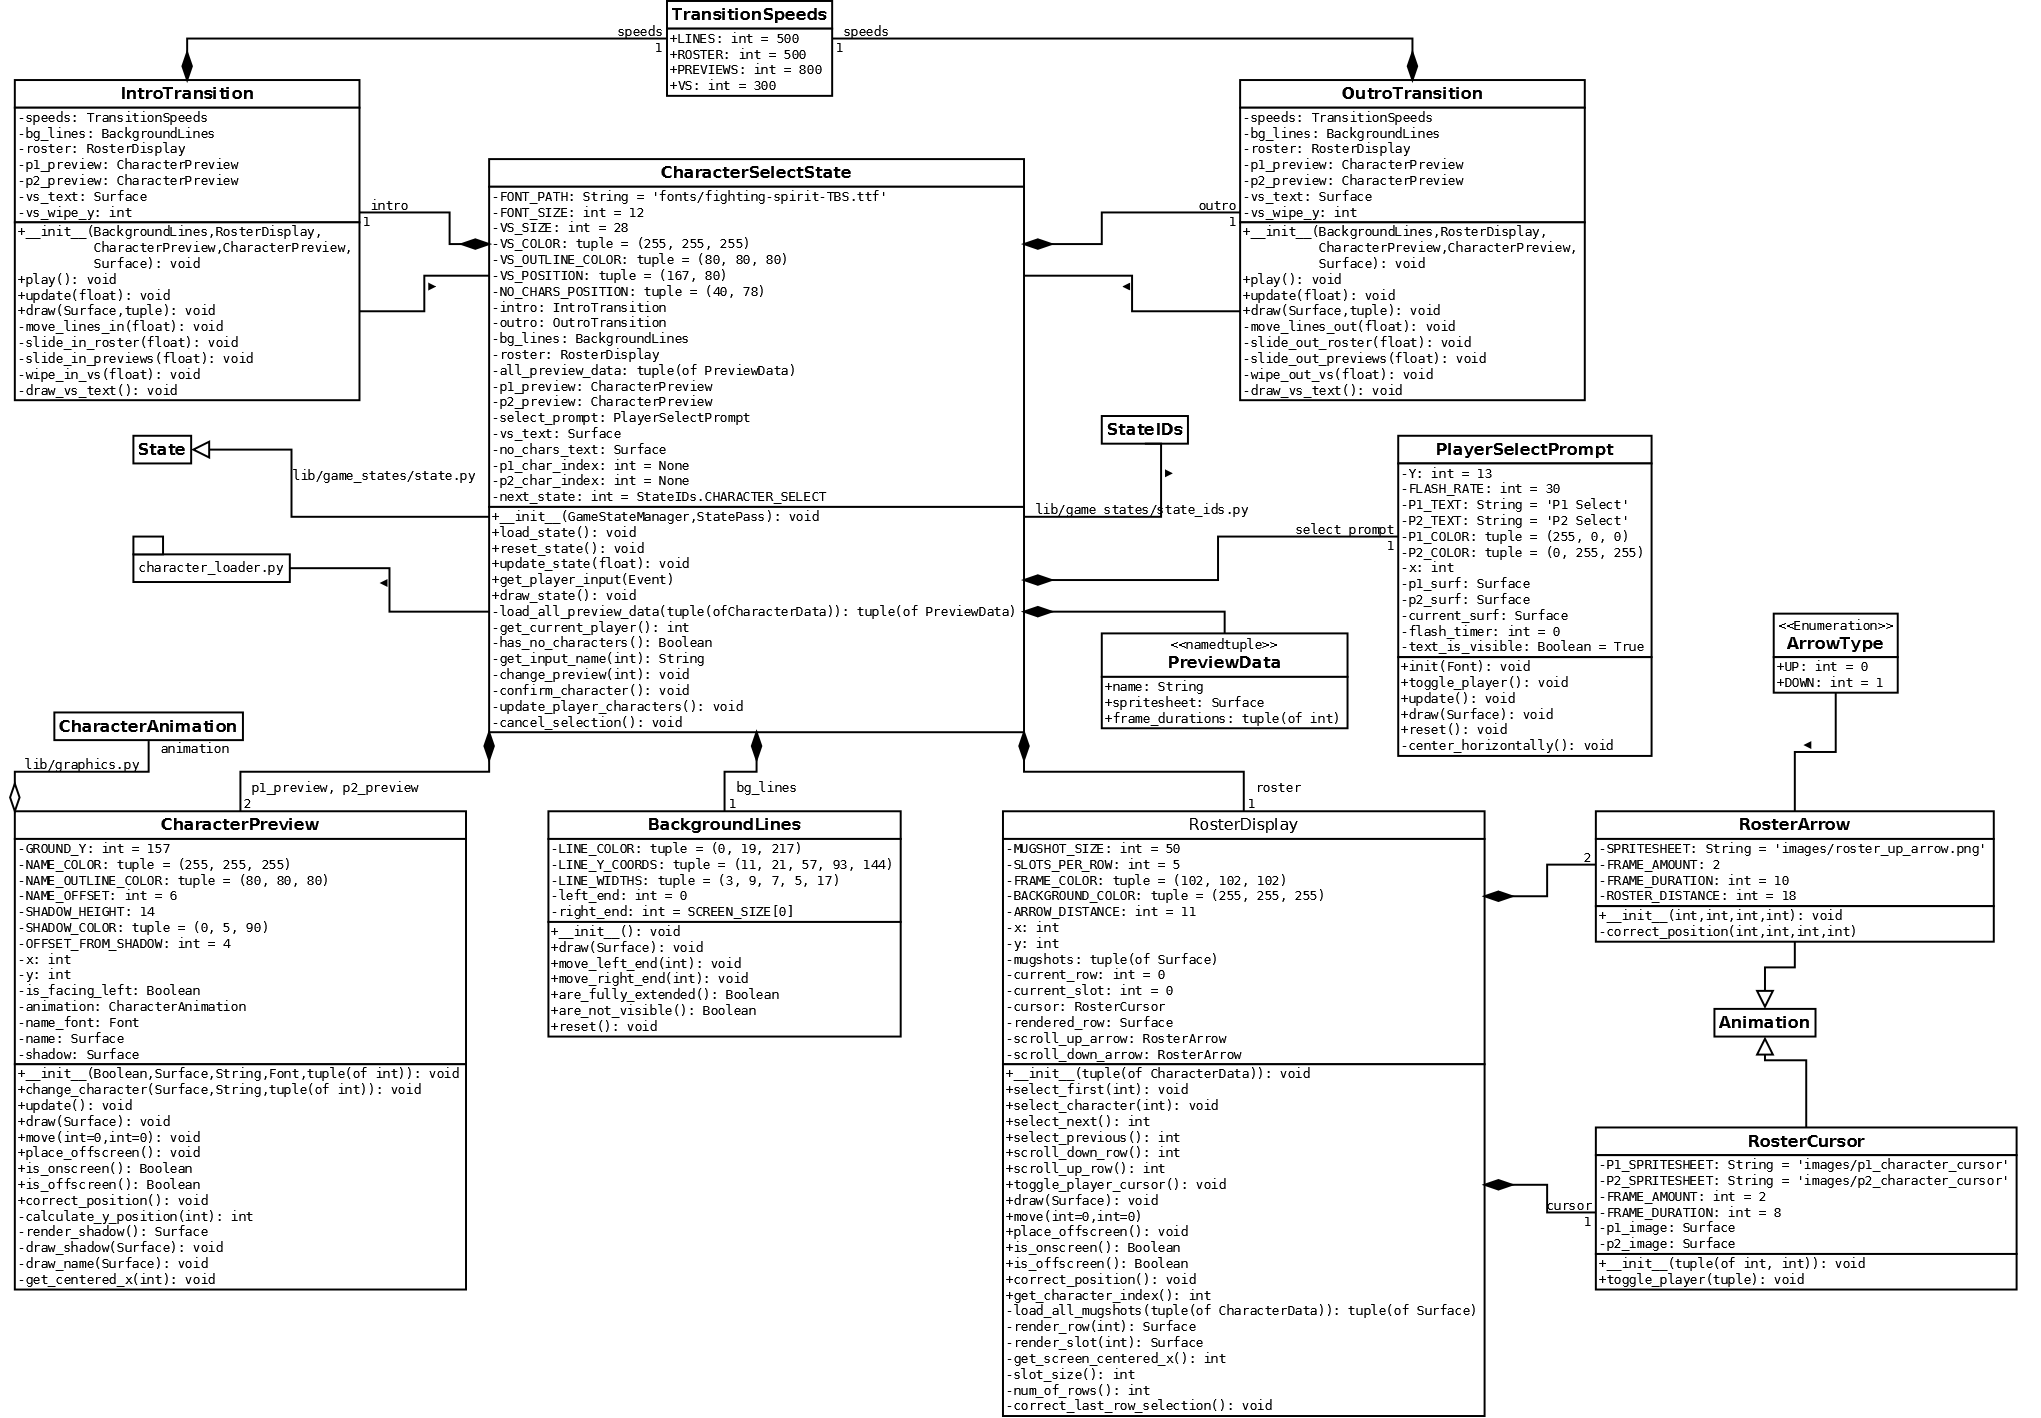
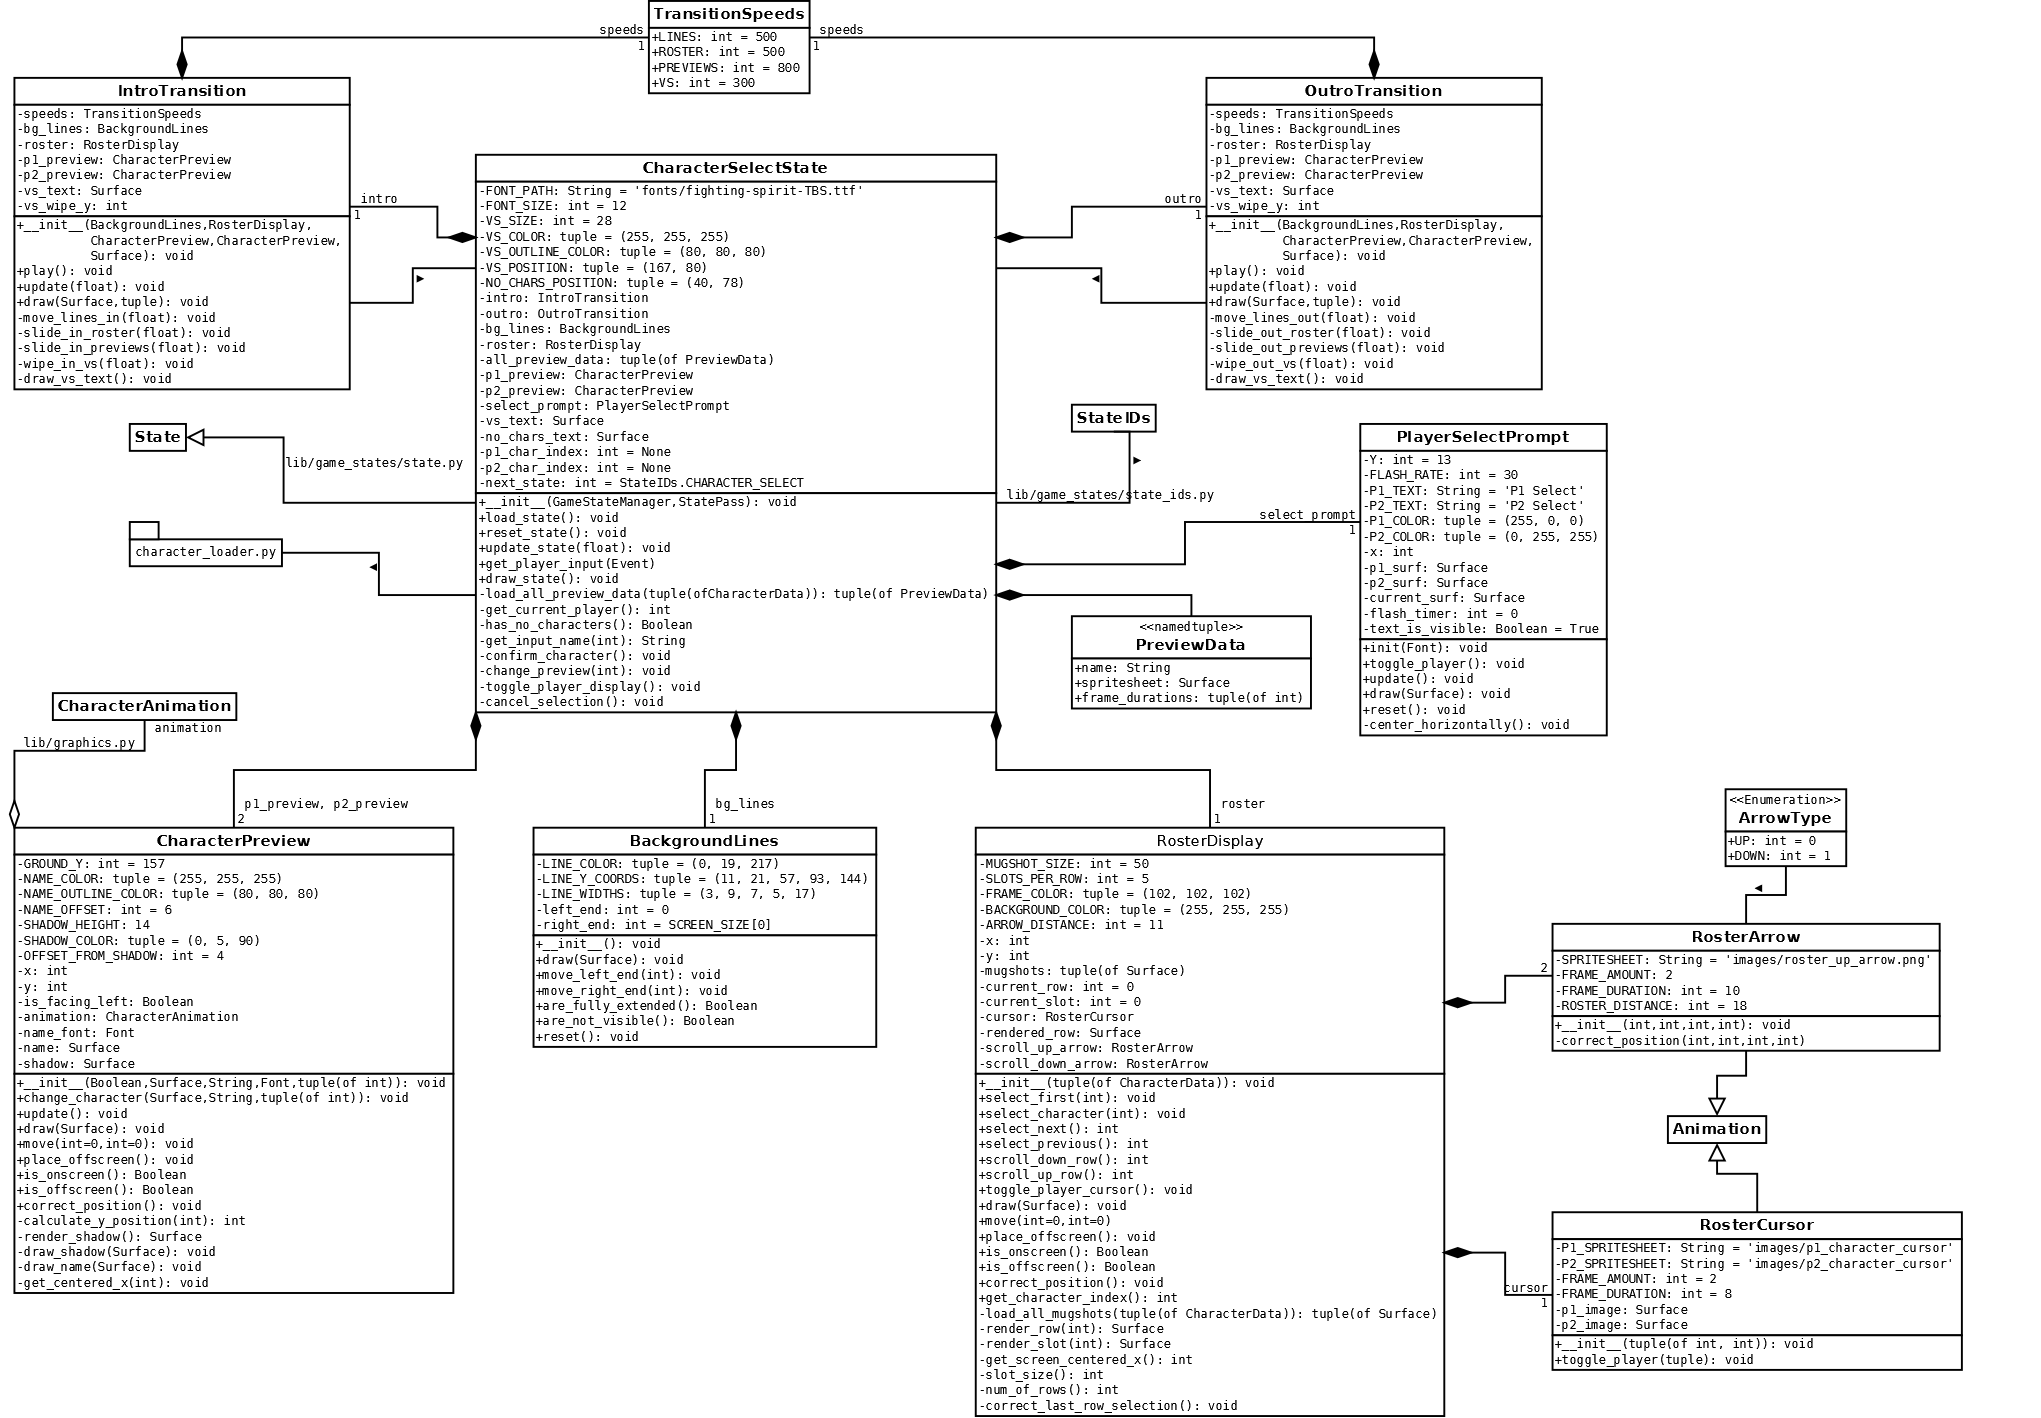
CharacterSelectState: Add toggle_player_display()
Don't Repeat Yourself.

diff --git a/lib/game_states/character_select_state.py b/lib/game_states/character_select_state.py
@@ -225,8 +225,7 @@ class CharacterSelectState(State):
         else:
             self.roster.select_character(self.p1_char_index)
             self.p1_char_index = None
-            self.select_prompt.toggle_player()
-            self.roster.toggle_player_cursor()
+            self.toggle_player_display()
 
     def confirm_character(self):
         """Save the currently-selected character as a player's fighter
@@ -240,11 +239,17 @@ class CharacterSelectState(State):
         if self.get_current_player() == 1:
             self.p1_char_index = self.roster.get_character_index()
             self.roster.select_first()
-            self.select_prompt.toggle_player()
-            self.roster.toggle_player_cursor()
+            self.toggle_player_display()
         else:
             self.p2_char_index = self.roster.get_character_index()
             self.next_state = StateIDs.SELECT_STAGE
+
+    def toggle_player_display(self):
+        """Toggle certain graphics to indicate that the other player is
+        now choosing.
+        """
+        self.select_prompt.toggle_player()
+        self.roster.toggle_player_cursor()
 
     def get_current_player(self):
         """Return the number of the player currently making their
